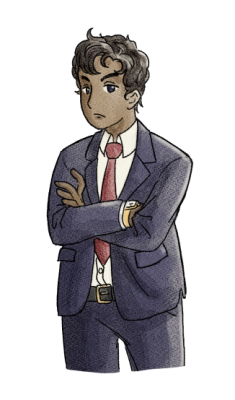
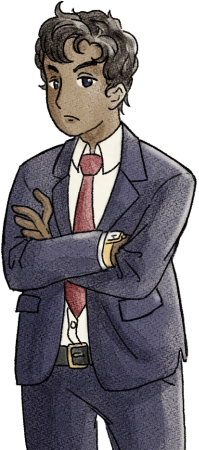
allow full backgorund and pop/sus on epilogue

diff --git a/main.js b/main.js
@@ -10,7 +10,7 @@ state = {
   gameStage: LOADING,
   currentEpisode: 0,
   isLoading: true,
-  popularity: 0,
+  popularity: 10,
   suspicion: 0,
   finishedAudioPuzzle: false,
   episode_ending: null,
@@ -40,7 +40,7 @@ function startEpisode() {
   showGameStage();
   showTextNode(1);
   updateViews();
-  $(".dialogue-main").css(
+  $("#dialogue-container").css(
     "background-image",
     "url(" + all_episodes[state.currentEpisode].backgroundImg + ")"
   );
@@ -57,7 +57,7 @@ function showTextNode(textNodeIndex) {
     "background-image",
     "url(" + textNode.characterImg + ")"
   );
-  $("#character-dialogue").text(textNode.text);
+  $("#character-dialogue").html(textNode.text);
   $("#speaker-name").text(textNode.speakerName);
   $("#responses").empty();
   if (textNode.options) {
@@ -75,6 +75,7 @@ function showTextNode(textNodeIndex) {
     // Allow player to increment the story by pressing 'enter' or 'space'
     document.body.onkeyup = function (e) {
       if (e.code == "Space" || e.code == "Enter") {
+        handlePopularityAndSuspicion(textNode.popularity, textNode.suspicion);
         if (textNode.next == "FINISHEPISODE") {
           showEpilogue();
         } else {
@@ -83,6 +84,7 @@ function showTextNode(textNodeIndex) {
       }
     };
     $("#progress-dialogue").click(function() {
+      handlePopularityAndSuspicion(textNode.popularity, textNode.suspicion);
       if (textNode.next == "FINISHEPISODE") {
         showEpilogue();
       } else {
@@ -92,17 +94,22 @@ function showTextNode(textNodeIndex) {
   }
 }
 
-function selectOption(option) {
-  if (option.popularity) {
-    state.popularity += option.popularity;
+function handlePopularityAndSuspicion(popularityAdjustment, suspicionAdjustment) {
+  if (popularityAdjustment) {
+    const newPopularity = state.popularity + popularityAdjustment; 
+    state.popularity = newPopularity >= 0 ? newPopularity : 0;
   }
-  if (option.suspicion) {
-    state.suspicion += option.suspicion;
-    if (state.suspicion > 10) { // TODO: determine actual threshold
+  if (suspicionAdjustment) {
+    const newSuspicion = state.suspicion + suspicionAdjustment; 
+    state.suspicion = newSuspicion >= 0 ? newSuspicion : 0;
+    if (state.suspicion > 20) { // TODO: determine actual threshold
       gameOver();
-      return;
     }
   }
+}
+
+function selectOption(option) {
+  handlePopularityAndSuspicion(option.popularity, option.suspicion);
   if (option.setEpilogue) {
     state.episode_ending = option.setEpilogue
   }
@@ -123,7 +130,7 @@ function selectOption(option) {
     $("#livestream-chat").scrollTop = 0;
   }
 
-  if (option.nextText == START_PUZZLE) {
+  if (option.nextText == START_PUZZLE && state.gameStage == DIALOGUE) {
     state.gameStage = AUDIO;
     showGameStage();
     startAudioPuzzle();
@@ -133,8 +140,7 @@ function selectOption(option) {
 }
 
 function updateViews() {
-  // TODO: finalize how this updates. 
-  const newViews = 1000 + (state.popularity * 100);
+  const newViews = state.popularity * 100;
   $("#view-number").text(newViews);
 }
 

diff --git a/index.html b/index.html
@@ -42,8 +42,7 @@
         <div class="dialogue-main">
           <div id="character-portrait"></div>
           <div class="dialogue-overlay">
-            <div>LIVESTREAM</div>
-            <div><span id="view-number"></span> VIEWS</div> 
+            <img alt="LIVESTREAM" src="assets/UI/live.png">
           </div>
           <div class="dialogue-responses-wrapper" id="responses">
           </div>
@@ -56,6 +55,7 @@
           </div>
         </div>
         <div class="livestream">
+          <div id="view-wrapper"><span id="view-number"></span><img alt="viewers" src="assets/UI/viewers.png"></div> 
           <div class="livestream-wrapper">
             <div id="livestream-chat"></div>
           </div>

diff --git a/main.css b/main.css
@@ -11,6 +11,7 @@ body {
 
 main {
   width: 960px;
+  min-width: 960px;
   height: 640px;
   background-color: #ddd;
   font-family: "Handlee", cursive;
@@ -63,10 +64,10 @@ main {
 }
 
 #character-portrait {
-  height: 400px;
-  width: 250px;
-  left: calc(50% - 125px);
-  top: 17%;
+  height: 450px;
+  width: 200px;
+  left: calc(50% - 100px);
+  top: 6%;
   position: absolute;
 }
 
@@ -86,6 +87,15 @@ main {
   margin-top: 11px;
   position: relative;
   overflow: hidden;
+}
+
+#view-wrapper {
+  position: absolute;
+  top: 5px;
+  right: 16px;
+  font-size: 24px;
+  display: flex;
+  align-items: center;
 }
 
 #livestream-chat {

diff --git a/episodes.js b/episodes.js
@@ -1,12 +1,12 @@
 
-const FIELD_BACKGROUND = "./assets/backgrounds/placeholder.jpg";
+const HOUSE_BACKGROUND = "./assets/backgrounds/cathouse_shadow.png";
 const CREEPY_MUSIC = "./assets/sounds/music-placeholder.wav";
 const PIZZA_AUDIO = "./assets/sounds/ghost-request-placeholder.mp3";
 
 const all_episodes = [
   {
     episodeTitle: "The Haunted House",
-    backgroundImg: FIELD_BACKGROUND,
+    backgroundImg: HOUSE_BACKGROUND,
     episodeMusic: CREEPY_MUSIC,
     ghostAudio: PIZZA_AUDIO,
     ghostAudioCaption: "i would like to eat some pizza one last time",

diff --git a/dialogue-hauntedhouse.js b/dialogue-hauntedhouse.js
@@ -55,7 +55,7 @@ const possible_epilogues = [
 const hauntedHouseDialogue1 = [
   {
     id: 1,
-    text: "Hello lovelies, today we've got a call from Greg, from Lovely Homes Real Estate!",
+    text: "Hello <b>lovelies</b>, today we've got a call from Greg, from Lovely Homes Real Estate!",
     speakerName: "MC",
     characterImg: GREG_GRUMPY,
     next: 2
@@ -146,6 +146,8 @@ const hauntedHouseDialogue2 = [
       },
       {
         text: "oopsie",
+        popularity: 1,
+        suspicion: -10,
         setEpilogue: 4,
         nextText: 3,
       }

diff --git a/README.md b/README.md
@@ -8,6 +8,13 @@ Created by
 - Emma (LaChapeliere) narrative designer
 - Anni (Nightsparrow) graphics artist
 
+From Trello feedback 
+- [x] allow increase/decrease popularity and suspicion when the epilogue happens
+- [x] replace cathouse background to full screen
+- [ ] add ability to bold text in dialogue - responded on trello about this
+- [ ] some text dialogue gets covered - responded on trello about this
+- [ ] no dialogue when options are being shown
+
 # EPISODE WRITING:
 
 <p>There are two files that writing needs to be added to. <p>
